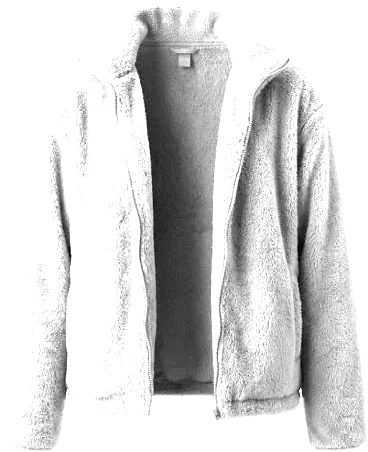
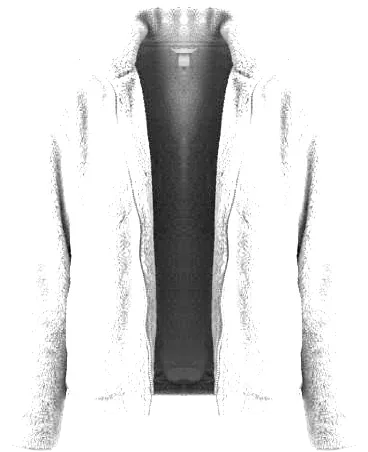
Symmetrical garments, shoulder-matched sizing, hands at the cuffs, cleaner crops
- knits and jackets mirrored from their cleaner half, so the form reads straight on
- width matched to the form on the same shoulder row of the body (the last change
  measured the form with its arms but the garment at its collar, so tops ran oversized)
- the form's hands are put back at the cuffs of the outer sleeves
- beanie regenerated on green and worn on the head down to the brow; stacked jeans and
  silver chain cleaned of leftover background

Changed region(s): [[0.5082, 0.0, 1.0, 1.0]]

diff --git a/index.html b/index.html
@@ -1308,29 +1308,29 @@ const WAIST_JACKETS = ["suede", "moto", "crop-puffer"];
    is the jacket's back panel, which is drawn behind the body, so the pants and knit
    show between the fronts the way they do when it's worn open. */
 const OPENINGS = {
-  "overcoat":     [[[.03, .36], [.12, .31], [.5, .31], [.97, .29]], [[.03, .57], [.14, .62], [.3, .68], [.97, .7]]],
-  "trench":       [[[.02, .41], [.12, .4], [.5, .42], [.94, .41]], [[.02, .57], [.2, .58], [.5, .59], [.94, .58]]],
-  "barn-jacket":  [[[.06, .39], [.5, .39], [.95, .42]], [[.06, .62], [.5, .66], [.95, .65]]],
-  "suede-jacket": [[[.04, .4], [.21, .49]], [[.04, .6], [.21, .51]]],
-  "moto-jacket":  [[[.08, .39], [.2, .43], [.45, .48], [.73, .49]], [[.08, .58], [.2, .58], [.45, .61], [.73, .62]]],
-  "blazer":       [[[.02, .42], [.1, .4], [.5, .43], [.95, .41]], [[.02, .58], [.1, .6], [.5, .56], [.95, .59]]],
-  "power-blazer": [[[.02, .43], [.5, .46], [.95, .47]], [[.02, .59], [.5, .55], [.95, .54]]],
-  "chore-jacket": [[[.03, .39], [.15, .37], [.5, .43], [.92, .46]], [[.03, .59], [.5, .59], [.92, .57]]],
-  "shell-jacket": [[[.08, .38], [.5, .41], [.95, .43]], [[.08, .61], [.5, .59], [.95, .57]]],
-  "puffer":       [[[.08, .38], [.77, .41]], [[.08, .59], [.77, .56]]],
+  "overcoat":     [[[.03, .361], [.12, .311], [.501, .311], [.971, .291]], [[.03, .639], [.12, .689], [.501, .689], [.971, .709]]],
+  "trench":       [[[.02, .41], [.12, .4], [.5, .42], [.94, .41]], [[.02, .59], [.12, .6], [.5, .58], [.94, .59]]],
+  "barn-jacket":  [[[.06, .389], [.501, .389], [.953, .419]], [[.06, .611], [.501, .611], [.953, .581]]],
+  "suede-jacket": [[[.04, .401], [.21, .491]], [[.04, .599], [.21, .509]]],
+  "moto-jacket":  [[[.08, .391], [.2, .431], [.45, .481], [.73, .491]], [[.08, .609], [.2, .569], [.45, .519], [.73, .509]]],
+  "blazer":       [[[.02, .421], [.1, .401], [.5, .431], [.95, .411]], [[.02, .579], [.1, .599], [.5, .569], [.95, .589]]],
+  "power-blazer": [[[.02, .43], [.5, .46], [.95, .47]], [[.02, .57], [.5, .54], [.95, .53]]],
+  "chore-jacket": [[[.03, .393], [.15, .373], [.5, .433], [.92, .464]], [[.03, .607], [.15, .627], [.5, .567], [.92, .536]]],
+  "shell-jacket": [[[.08, .382], [.5, .412], [.95, .432]], [[.08, .618], [.5, .588], [.95, .568]]],
+  "puffer":       [[[.08, .381], [.77, .411]], [[.08, .619], [.77, .589]]],
   "fleece-jacket": [[[.08, .39], [.9, .43]], [[.08, .61], [.9, .57]]],
-  "track-jacket": [[[.08, .26], [.88, .26]], [[.08, .61], [.88, .61]]]
+  "track-jacket": [[[.08, .3], [.88, .3]], [[.08, .7], [.88, .7]]]
 };
 /* The inside of each knit's collar, traced the same way as [x, y] points: the back of the
    collar and the zip's V. The form's neck is drawn over it, so the neck rises out of the
    collar, with the collar's front edge still in front of it. */
 const NECKS = {
   "quarter-zip":              [[.4, 0], [.6, 0], [.6, .05], [.51, .155], [.49, .155], [.4, .05]],
-  "quarter-zip-short":        [[.4, 0], [.6, 0], [.6, .05], [.51, .15], [.49, .15], [.4, .05]],
+  "quarter-zip-short":        [[.402, 0], [.603, 0], [.603, .05], [.512, .15], [.492, .15], [.402, .05]],
   "quarter-zip-short-waffle": [[.38, 0], [.62, 0], [.63, .09], [.505, .24], [.495, .24], [.37, .09]],
   "quarter-zip-waffle":       [[.4, 0], [.6, 0], [.6, .06], [.51, .16], [.49, .16], [.4, .06]],
-  "quarter-zip-cable":        [[.4, 0], [.6, 0], [.6, .045], [.5, .06], [.4, .045]],
-  "quarter-zip-fleece":       [[.4, 0], [.6, 0], [.6, .04], [.5, .07], [.4, .04]]
+  "quarter-zip-cable":        [[.399, 0], [.599, 0], [.599, .045], [.499, .06], [.399, .045]],
+  "quarter-zip-fleece":       [[.402, 0], [.603, 0], [.603, .04], [.502, .07], [.402, .04]]
 };
 function polyPath(g, points, box) {
   g.beginPath();
@@ -1413,9 +1413,6 @@ function measureForm(img) {
     return r - l;
   };
   const armSpan = Math.max(...rows(.3, .42).map(spanAt));
-  // The shoulders: the first row below the neck that reaches nearly the full chest width.
-  const chestSpan = spanAt(Math.round(neckY + (waistY - neckY) * .5));
-  const shoulderW = spanAt(rows(neckY / H, waistY / H).find(y => spanAt(y) >= chestSpan * .9) || waistY);
   // Chest: below the armpits, where the arms have separated from the body.
   const chestY = Math.round(neckY + (waistY - neckY) * .6);
   const chestRun = run(chestY);
@@ -1429,7 +1426,7 @@ function measureForm(img) {
     return MID - W / 2 + (l + r) / 2;
   };
   const ankles = [centerAt(ankleY, Math.round(legX)), centerAt(ankleY, Math.round(cx + hipW / 4))];
-  return { neckY, waistY, waistW: run(waistY), hipW, crotchY, ankleY, footY, armSpan, shoulderW, chestW, feetW, spanAt, ankles };
+  return { neckY, waistY, waistW: run(waistY), hipW, crotchY, ankleY, footY, armSpan, chestW, feetW, spanAt, ankles };
 }
 /* A top's own body width, measured below the sleeves' reach. */
 const torsoMarks = new Map();
@@ -1510,17 +1507,64 @@ function shoeHalves(img) {
 
 /* Full width of a garment image at a given share of its height (shoulders plus sleeve tops). */
 const spanMarks = new Map();
-function garmentSpan(img, share) {
+function garmentEdges(img, share) {
   const key = img.src + share;
   if (!spanMarks.has(key)) {
     const solid = alphaOf(img), y = img.height * share;
     let l = 0, r = img.width - 1;
     while (l < r && !solid(l, y)) l++;
     while (r > l && !solid(r, y)) r--;
-    spanMarks.set(key, r - l);
+    spanMarks.set(key, [l, r]);
   }
   return spanMarks.get(key);
 }
+/* Where each sleeve ends on a garment photo: the outer band of the image, lowest row,
+   and the middle of the cuff there, in image pixels. */
+const cuffMarks = new Map();
+function garmentCuffs(img) {
+  if (!cuffMarks.has(img.src)) {
+    const solid = alphaOf(img), W = img.width, H = img.height;
+    const cuff = side => {
+      const col = x => side ? W - 1 - x : x;
+      let outer = 0;
+      while (outer < W / 2 && ![...Array(H).keys()].some(y => y % 3 === 0 && solid(col(outer), y))) outer++;
+      const band = Math.round(W * .08);
+      let low = 0;
+      for (let y = H - 1; y > 0 && !low; y--) for (let x = outer; x < outer + band; x++) if (solid(col(x), y)) { low = y; break; }
+      // The cuff's width a little above its lowest point, along the sleeve's outer run.
+      const y = Math.round(low - H * .02);
+      let l = 0;
+      while (l < W * .3 && !solid(col(l), y)) l++;
+      let r = l;
+      while (r < l + W * .16 && solid(col(r), y)) r++;
+      return { x: col((l + r) / 2), y: low };
+    };
+    cuffMarks.set(img.src, [cuff(0), cuff(1)]);
+  }
+  return cuffMarks.get(img.src);
+}
+/* The form's own hands, cut from the photo below the wrist, with where the wrist is. */
+const handMarks = {};
+function formHands(dummy, m) {
+  if (!handMarks[dummy.src]) {
+    const solid = alphaOf(dummy), W = dummy.width, cx = W / 2, len = Math.round(CANVAS_H * .075);
+    handMarks[dummy.src] = [0, 1].map(side => {
+      const inArm = x => side ? x > cx + m.chestW * .56 : x < cx - m.chestW * .56;
+      let tip = 0;
+      for (let y = Math.round(m.crotchY + CANVAS_H * .1); y > m.waistY && !tip; y--) for (let x = 0; x < W; x++) if (inArm(x) && solid(x, y)) { tip = y; break; }
+      const xs = [];
+      for (let x = 0; x < W; x++) if (inArm(x) && solid(x, tip - len)) xs.push(x);
+      const left = side ? Math.round(cx + m.chestW * .56) : 0, right = side ? W : Math.round(cx - m.chestW * .56);
+      const sprite = document.createElement("canvas");
+      sprite.width = right - left; sprite.height = len + 2;
+      sprite.getContext("2d").drawImage(dummy, left, tip - len, sprite.width, sprite.height, 0, 0, sprite.width, sprite.height);
+      return { sprite, wrist: (xs.length ? (xs[0] + xs[xs.length - 1]) / 2 : (left + right) / 2) - left };
+    });
+  }
+  return handMarks[dummy.src];
+}
+const garmentSpan = (img, share) => { const [l, r] = garmentEdges(img, share); return r - l; };
+const garmentMid = (img, share) => { const [l, r] = garmentEdges(img, share); return (l + r) / 2; };
 
 const garmentMarks = new Map();
 function waistbandWidth(img) {
@@ -1586,6 +1630,17 @@ async function paintDummy(canvas, outfit) {
     g.restore();
   }
   const drawn = {};
+  // Hands come out of the outer sleeves: drawn just before that garment, so the cuff covers the wrist.
+  const handsAt = (img, box) => {
+    const hands = formHands(dummy, m);
+    garmentCuffs(img).forEach((cuff, side) => {
+      const hand = hands[side];
+      g.save();
+      g.filter = "brightness(.88)";
+      g.drawImage(hand.sprite, box.x + cuff.x * box.width / img.width - hand.wrist, box.y + cuff.y * box.height / img.height - CANVAS_H * .012);
+      g.restore();
+    });
+  };
   // The neck goes back over the inside of the collar, so the form is wearing the knit.
   const neckOver = (item, box) => {
     const points = NECKS[WEAR[item.id][0]];
@@ -1601,7 +1656,7 @@ async function paintDummy(canvas, outfit) {
   // from shoulder to wrist so the dummy's angled arms never show past the sleeves.
   const longSleeves = top && top.id.startsWith("quarter-zip") && !top.id.includes("short");
   if ((layer && JACKET_IDS.includes(layer.id)) || longSleeves) {
-    // Hands go too, like a handless display form, so nothing floats below the cuffs.
+    // Hands go too here; they're put back at the cuffs once the sleeves are placed.
     const side = m.chestW * .56, armTop = m.neckY + CANVAS_H * .03, armBottom = m.crotchY + CANVAS_H * .1;
     g.save();
     g.globalCompositeOperation = "destination-out";
@@ -1623,13 +1678,21 @@ async function paintDummy(canvas, outfit) {
         // On the womenswear form the knit ends at the high hip, so it skims the body instead of hanging boxy.
         ? m.waistY + (m.crotchY - m.waistY) * .55
         : m.crotchY - CANVAS_H * .025);
-      // Across, the garment's shoulder line matches the form's shoulders plus room to wear
-      // it. Down, the hem lands at its set point, within a small stretch of the photo's own
-      // proportions, so a short jacket runs a little longer rather than being squashed narrow.
-      const ease = jacket ? 1.2 : item.id === "quarter-zip-cable" ? 1.1 : 1.06;
-      const sx = m.shoulderW * ease / garmentSpan(img, .15);
-      const sy = Math.min(sx / .85, Math.max(sx / 1.2, (hem - y) / img.height));
-      return { x: MID - img.width * sx / 2, y, width: img.width * sx, height: img.height * sy };
+      // Across, the garment matches the form at the shoulder line, both measured on the
+      // same row of the body, plus room to wear it. Down, the hem lands at its set point,
+      // within a small stretch of the photo's own proportions, so a short jacket runs a
+      // little longer rather than being squashed narrow.
+      const ease = jacket ? 1.14 : item.id === "quarter-zip-cable" ? 1.08 : 1.04;
+      const shoulderY = Math.round(m.neckY + (m.waistY - m.neckY) * .3);
+      let sy = (hem - y) / img.height, sx, share;
+      for (let pass = 0; pass < 2; pass++) {
+        share = Math.round((shoulderY - y) / (img.height * sy) * 100) / 100;
+        sx = m.spanAt(shoulderY) * ease / garmentSpan(img, share);
+        sy = Math.min(sx / .85, Math.max(sx / 1.2, (hem - y) / img.height));
+      }
+      // Centered on its own shoulders, not its bounding box, so a sleeve that flares
+      // further on one side doesn't push the body off center.
+      return { x: MID - garmentMid(img, share) * sx, y, width: img.width * sx, height: img.height * sy };
   };
   const coat = layer && JACKET_IDS.includes(layer.id) && drawable(layer) ? layer : null;
   const coatImg = coat && garments[order.indexOf(coat)];
@@ -1716,7 +1779,8 @@ async function paintDummy(canvas, outfit) {
         : item.slot === "top" || JACKET_IDS.includes(item.id) ? m.armSpan * 1.06 * widthShare / 1.62
         : form.size * widthShare;
       const width = base * (item === top && layer && JACKET_IDS.includes(layer.id) ? .86 : 1);
-      const height = img.height * width / img.width;
+      // A worn beanie stretches across the head and stops at the brow, so it sits wider than its photo.
+      const height = item.id === "beanie" ? width * .6 : img.height * width / img.width;
       const y = item.slot === "shoes" ? m.footY - height + 4
         : item.slot === "top" || JACKET_IDS.includes(item.id) || item.id === "scarf" ? m.neckY - CANVAS_H * .02
         : CANVAS_H * topEdge;
@@ -1748,6 +1812,7 @@ async function paintDummy(canvas, outfit) {
       return;
     }
     if (item === coat) {
+      handsAt(coatImg, coatBox);
       // The front: everything but the opening, over the pants and the knit.
       const front = document.createElement("canvas");
       front.width = coatImg.width; front.height = coatImg.height;
@@ -1759,6 +1824,7 @@ async function paintDummy(canvas, outfit) {
       g.drawImage(front, coatBox.x, coatBox.y, coatBox.width, coatBox.height);
       return;
     }
+    if (item === top && longSleeves) handsAt(img, box);
     g.drawImage(art, box.x, box.y, box.width, box.height);
     if (item === top) neckOver(item, box);
   });
